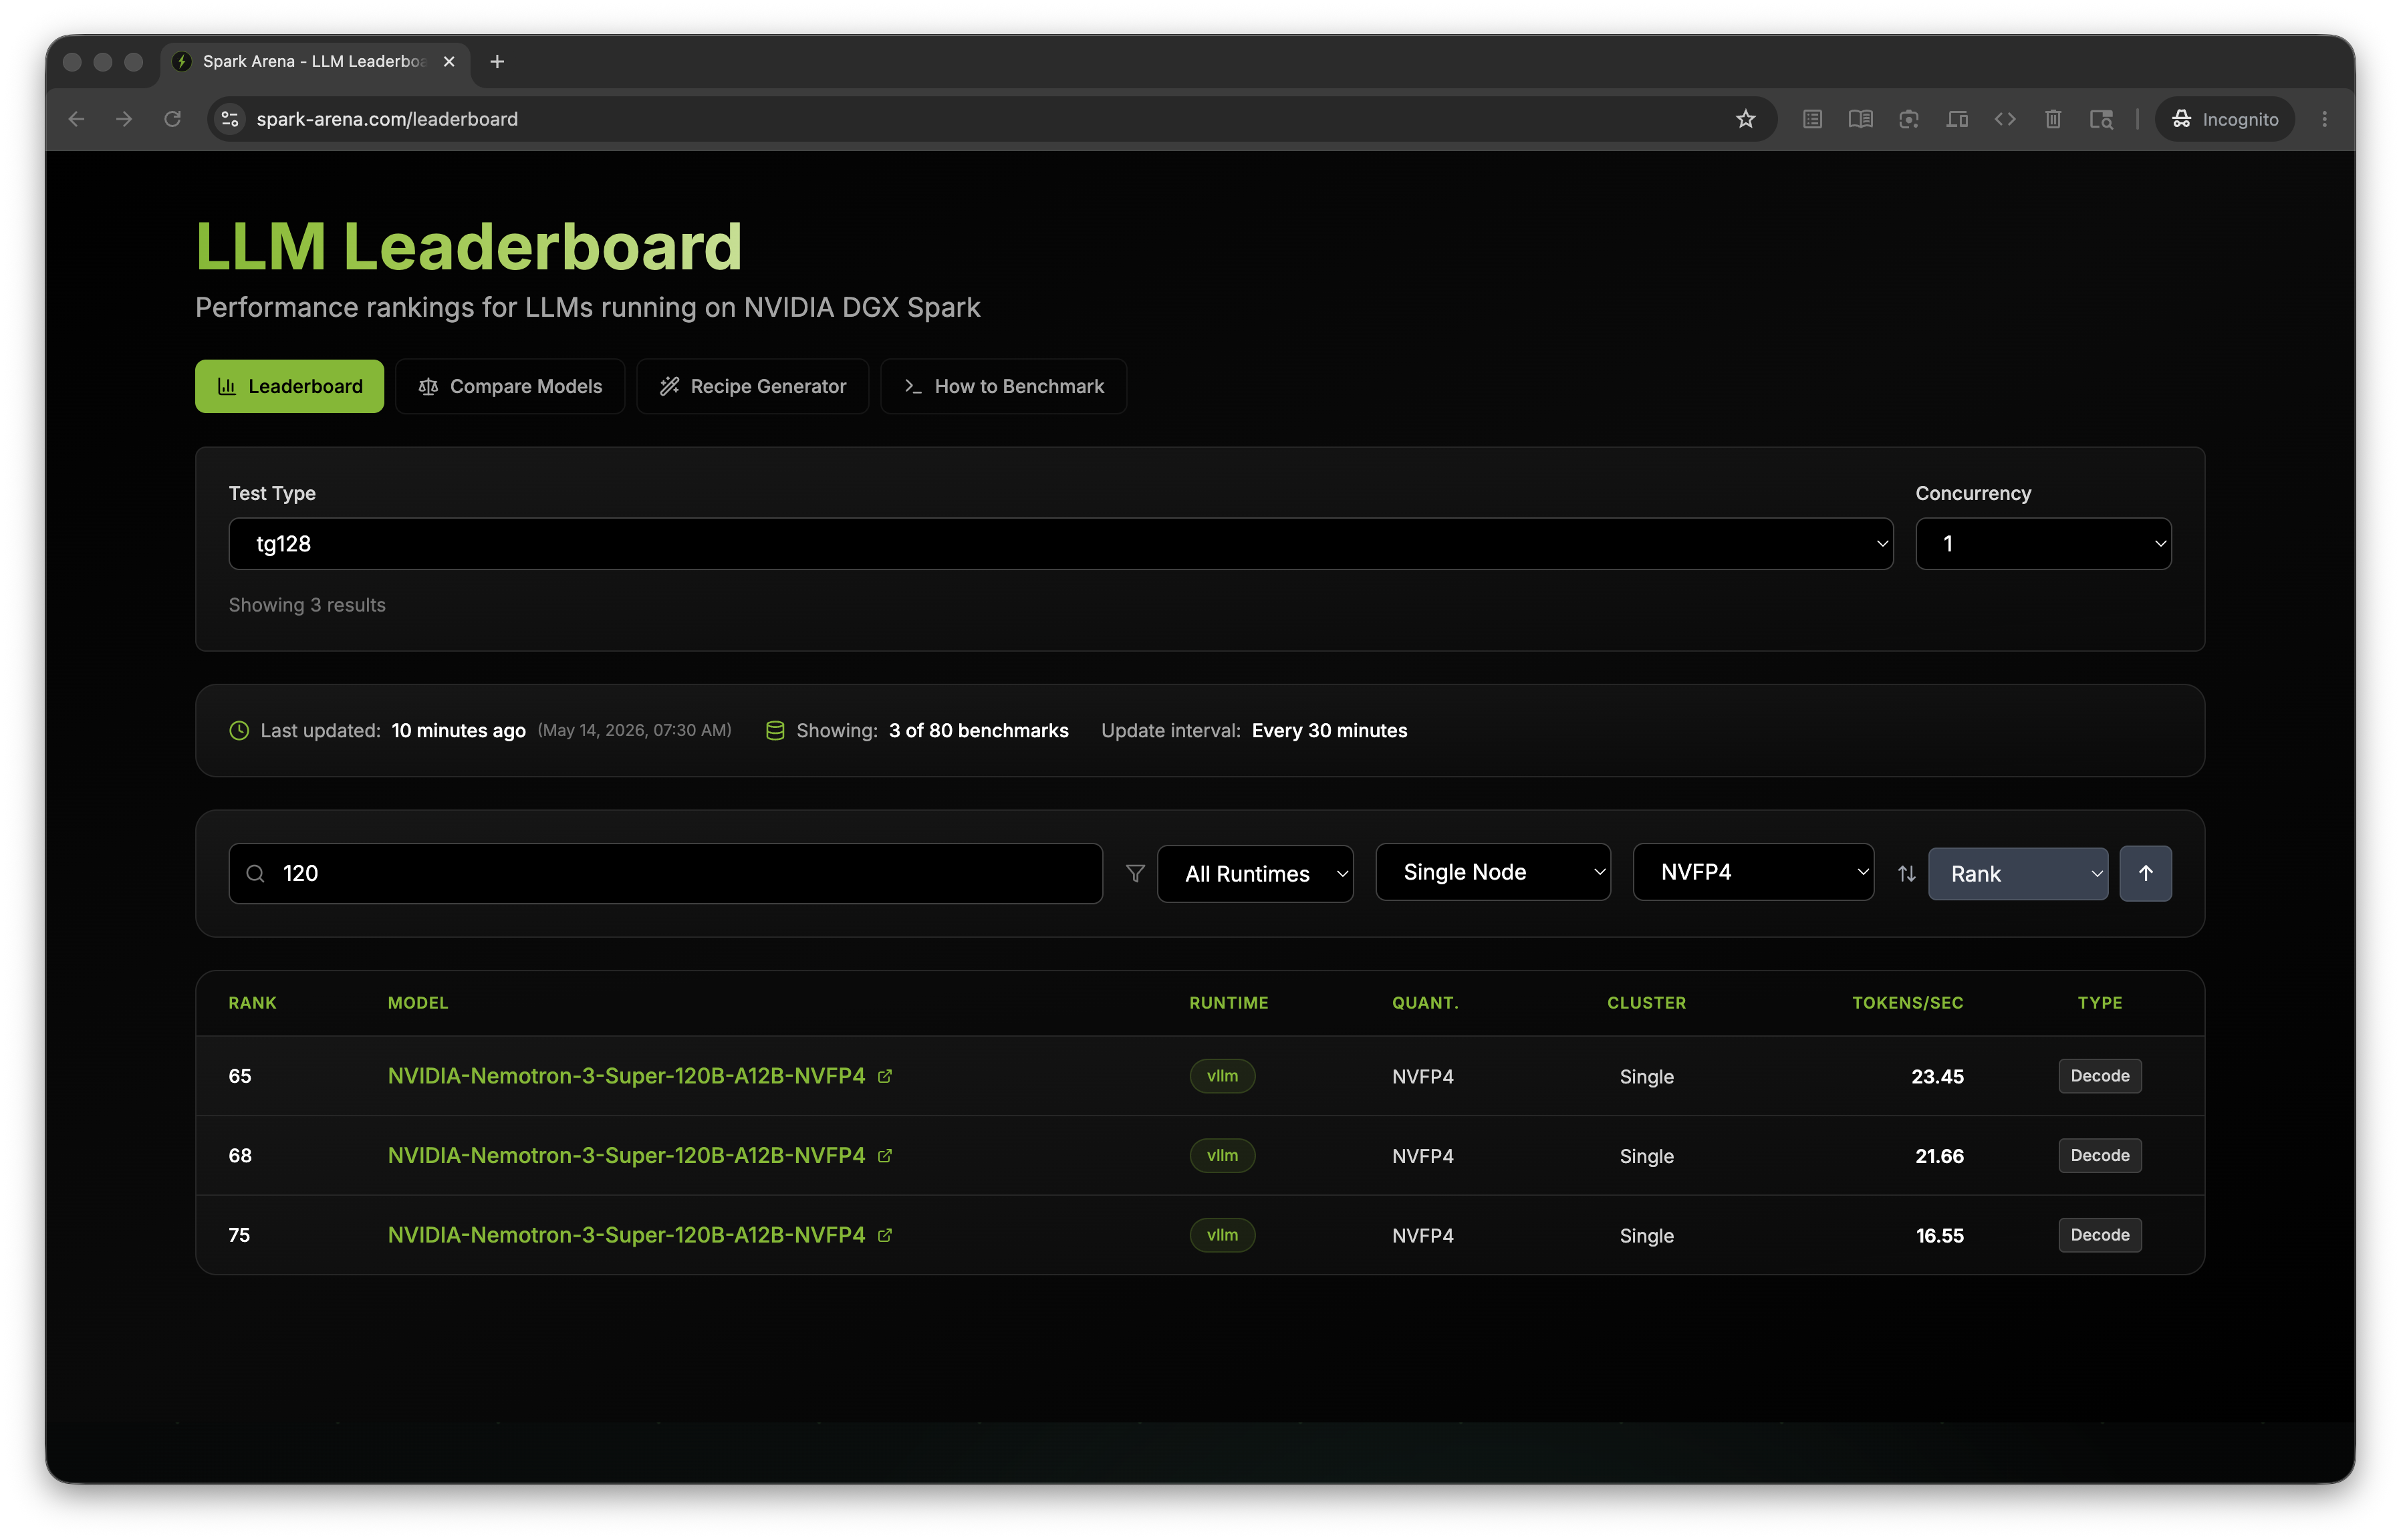
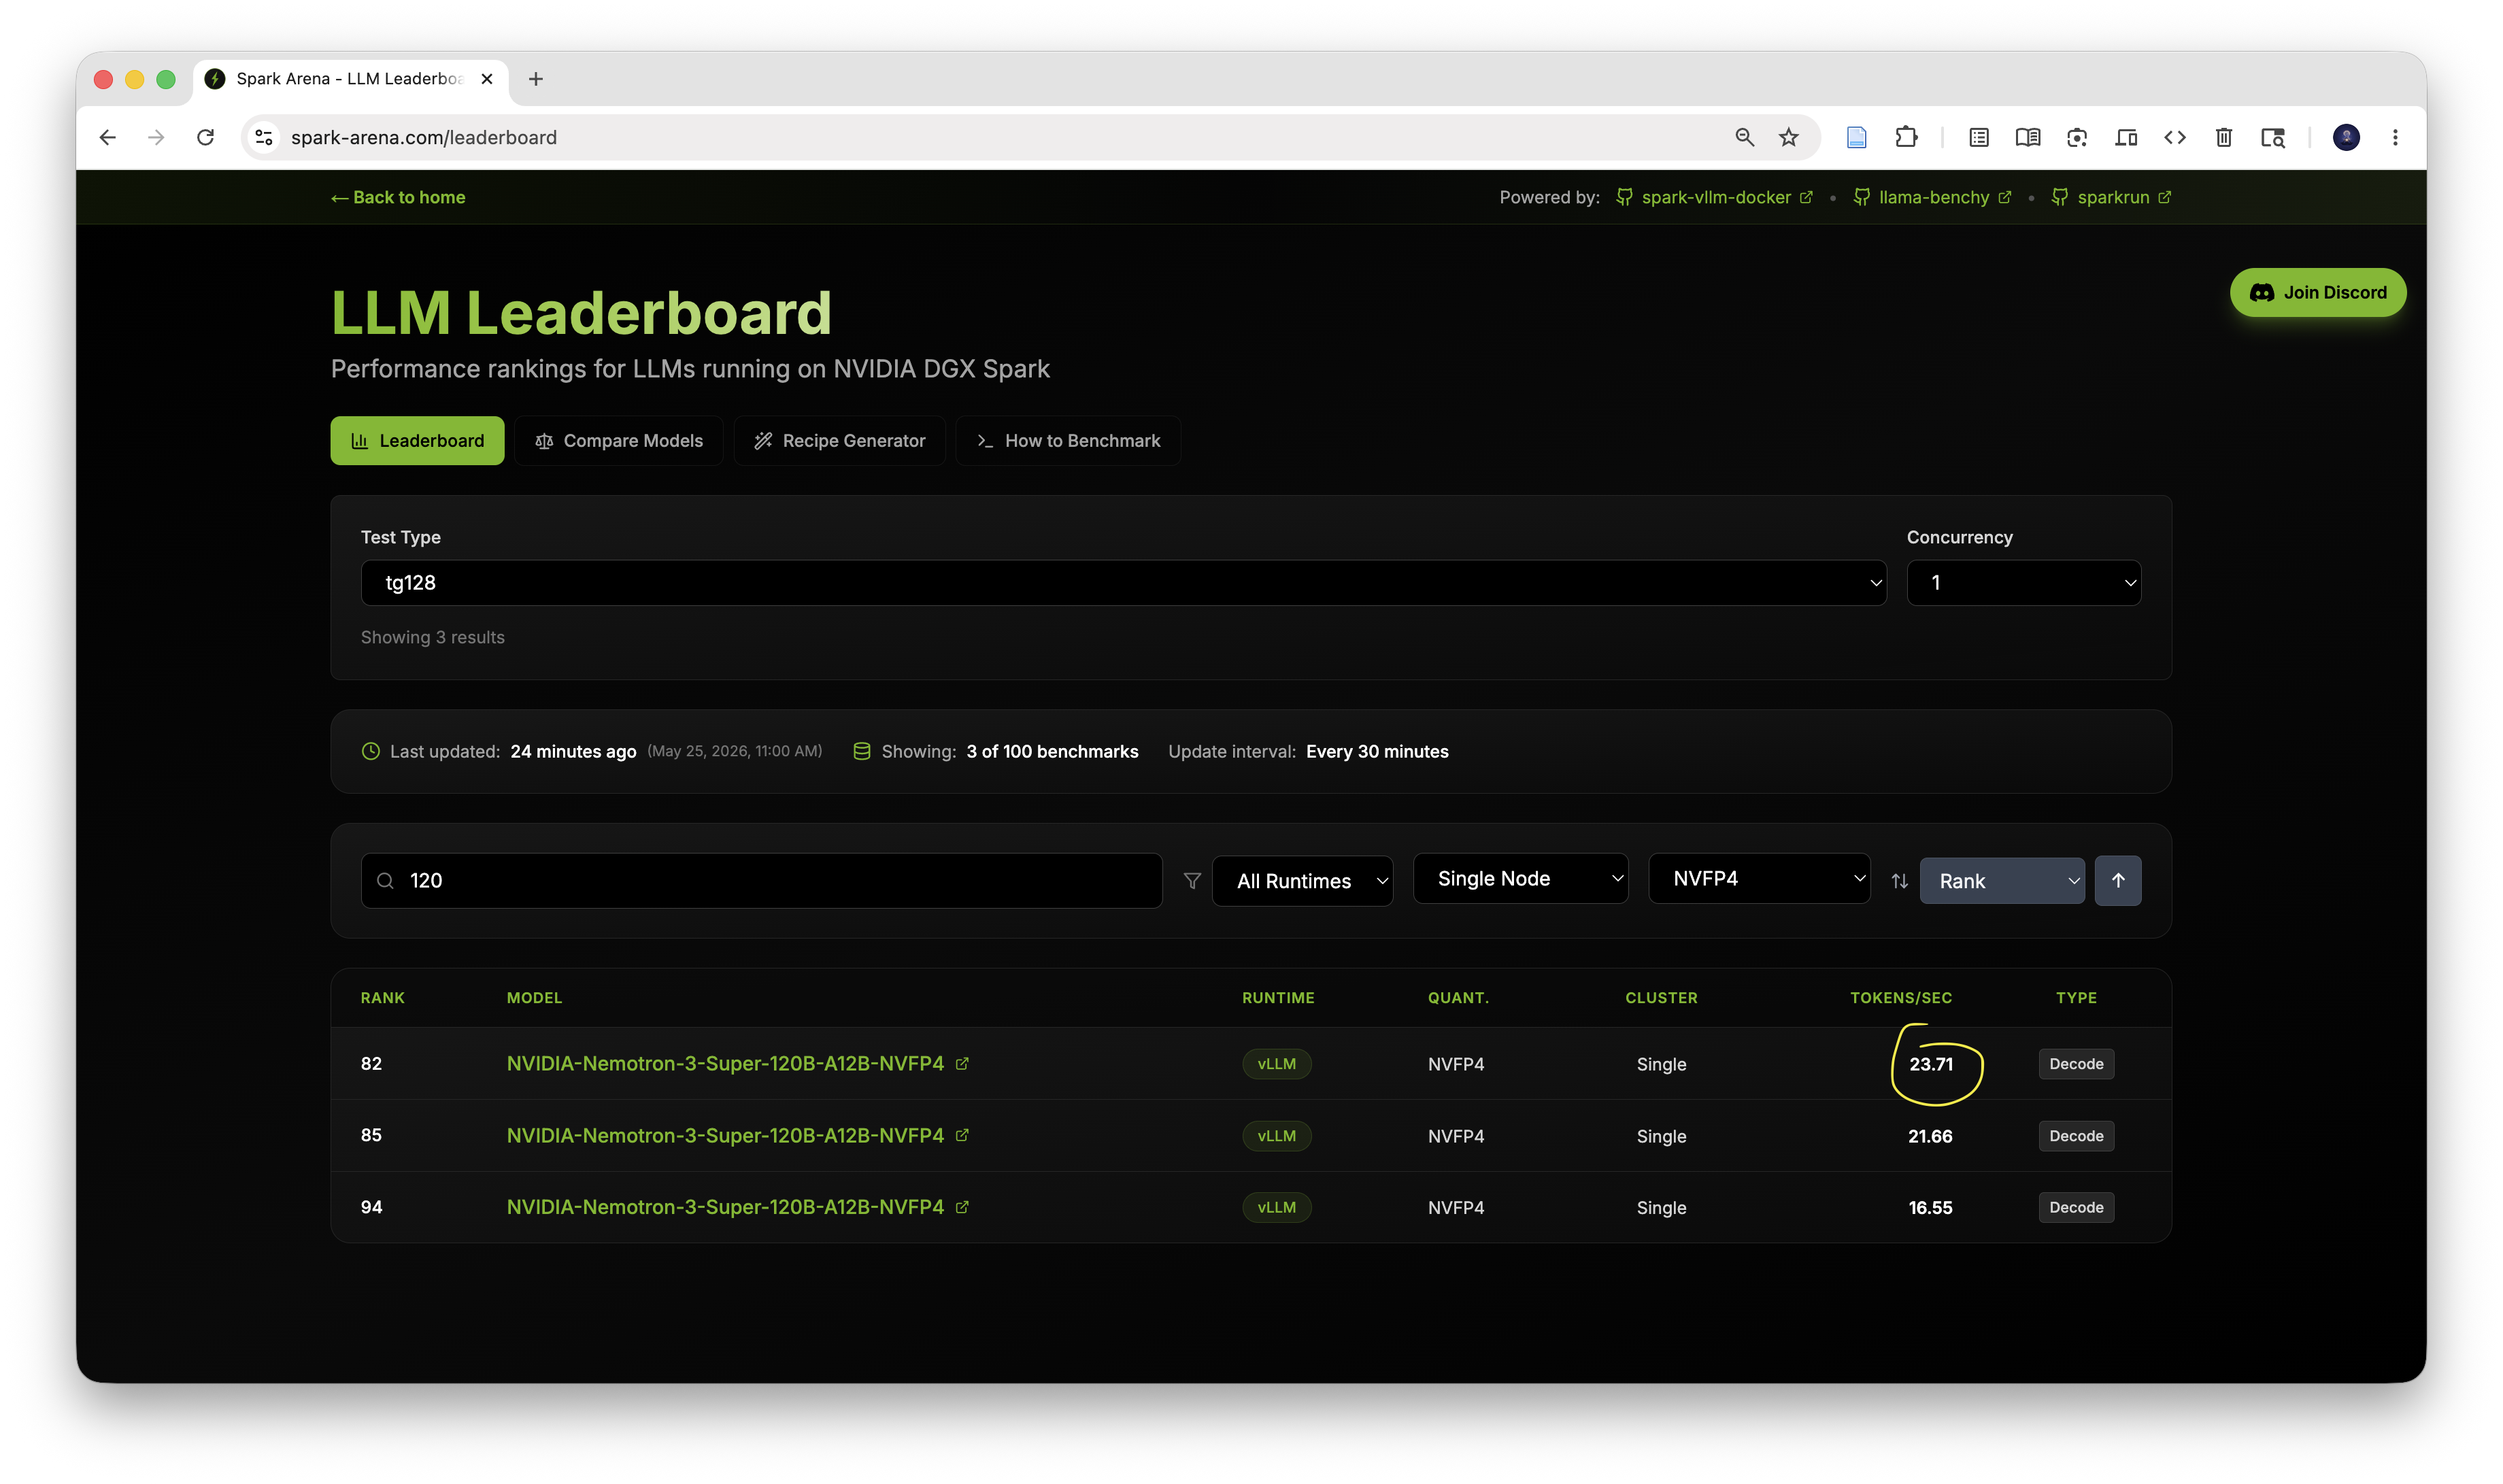
docs: update single-session TPS benchmark from 23.45 to 23.71

diff --git a/METHODOLOGY.md b/METHODOLOGY.md
@@ -134,7 +134,7 @@ NemoHermes and Open WebUI containers were stopped. Only spark-brain (vLLM) runni
 
 | Test | TPS (total) | TTFT |
 |---|---|---|
-| tg128 (c1) | **23.45** | — |
+| tg128 (c1) | **23.71** | — |
 | tg128 (c2) | 35.10 | — |
 | tg128 (c5) | 37.78 | — |
 | tg128 (c10) | 37.95 | — |
@@ -145,11 +145,11 @@ Full results: [spark-arena.com/benchmark/sub1778644062716](https://spark-arena.c
 
 ### Context Window Stability
 
-TPS remains stable at 22–23.45 tokens/s from depth 0 to depth 100,000. No performance cliff observed across the full benchmark sweep.
+TPS remains stable at 22–23.71 tokens/s from depth 0 to depth 100,000. No performance cliff observed across the full benchmark sweep.
 
 | Depth | tg128 t/s (c1) |
 |---|---|
-| 0 | 23.45 |
+| 0 | 23.71 |
 | 4096 | 21.95 |
 | 8192 | 22.30 |
 | 16384 | 21.94 |
@@ -202,7 +202,7 @@ time for the batch, rather than summing per-request TPS values.
 
 | Who | TPS | Stack | Context | Concurrent |
 |---|---|---|---|---|
-| **[Cogni-Brain (airawatraj)](https://spark-arena.com/benchmark/sub1778644062716) — official** | **23.45** | NVFP4 + vLLM | 131K | 1 |
+| **[Cogni-Brain (airawatraj)](https://spark-arena.com/benchmark/sub1778644062716) — official** | **23.71** | NVFP4 + vLLM | 131K | 1 |
 | **Cogni-Brain (airawatraj) — custom script** | **24.1** | NVFP4 + vLLM | 131K | 1 |
 | **Cogni-Brain (airawatraj) — custom script concurrent** | **53.9** | NVFP4 + vLLM | 131K | 4 |
 | [Seth Hobson](https://spark-arena.com/benchmark/a3dd9b9f-d9a6-485b-af72-fd34150a8b7c) (spark-arena, tg128) | 21.66 | NVFP4 + vLLM | 131K | 1 |

diff --git a/README.md b/README.md
@@ -71,7 +71,7 @@ analyzing the vLLM codebase - on the same Spark it is running on.
 
 | Metric | Result |
 |---|---|
-| Single session TPS (tg128) | **23.45 tok/s** |
+| Single session TPS (tg128) | **23.71 tok/s** |
 | Peak TPS (tg128 c5) | **72.67 tok/s** |
 | Context stability | **Stable 0 → 100K tokens** |
 | Total benchmark tests | 104 |
@@ -155,7 +155,7 @@ View full benchmark: [spark-arena.com/benchmark/sub1778644062716](https://spark-
 
 | Who | TPS | Stack | Context | Concurrent |
 |---|---|---|---|---|
-| **[Cogni-Brain (airawatraj)](https://spark-arena.com/benchmark/sub1778644062716) — official** | **23.45** | NVFP4 + vLLM | 131K | 1 |
+| **[Cogni-Brain (airawatraj)](https://spark-arena.com/benchmark/sub1778644062716) — official** | **23.71** | NVFP4 + vLLM | 131K | 1 |
 | **Cogni-Brain (airawatraj) — custom script** | **24.1** | NVFP4 + vLLM | 131K | 1 |
 | **Cogni-Brain (airawatraj) — custom script concurrent** | **53.9** | NVFP4 + vLLM | 131K | 4 |
 | [Seth Hobson](https://spark-arena.com/benchmark/a3dd9b9f-d9a6-485b-af72-fd34150a8b7c) (spark-arena, tg128) | 21.66 | NVFP4 + vLLM | 131K | 1 |
@@ -164,7 +164,7 @@ View full benchmark: [spark-arena.com/benchmark/sub1778644062716](https://spark-
 | [Raphael Amorim](https://spark-arena.com/benchmark/55beae02-e7a5-4e8a-98d3-325ba86b4583) | 16.55 | NVFP4 + vLLM | 262K | unknown |
 | josephbreda | 16–17 | NVFP4 + vLLM | unknown | 1 |
 
-The official spark-arena submission achieved **23.45 TPS** (tg128, vLLM, NVFP4, Single Node, no production services) —
+The official spark-arena submission achieved **23.71 TPS** (tg128, vLLM, NVFP4, Single Node, no production services) —
 the highest single-node result published for Nemotron-3-Super-120B-A12B-NVFP4 as of May 22, 2026.
 TPS remains stable from 0 to 100,000 tokens of context with no performance cliff observed.
 Happy to be proved wrong - let's extract max juice out of Spark.